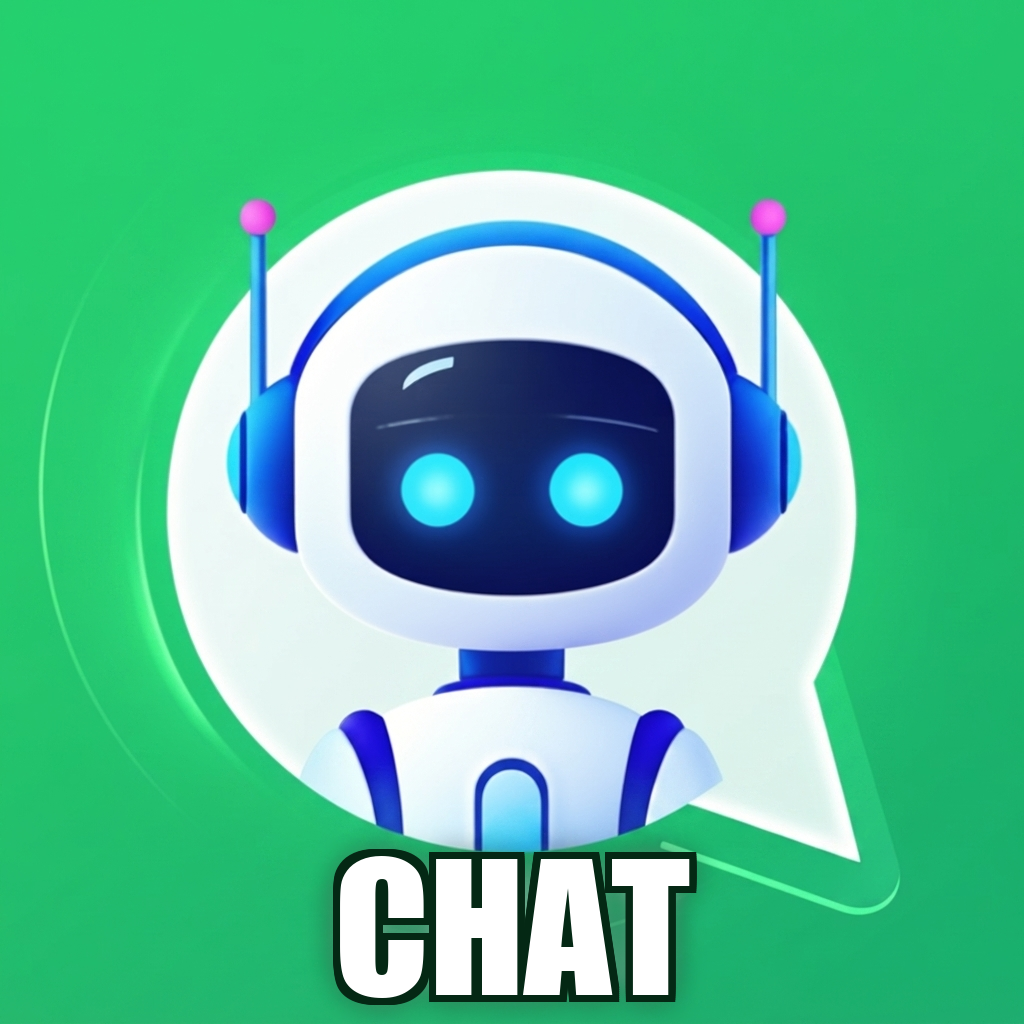
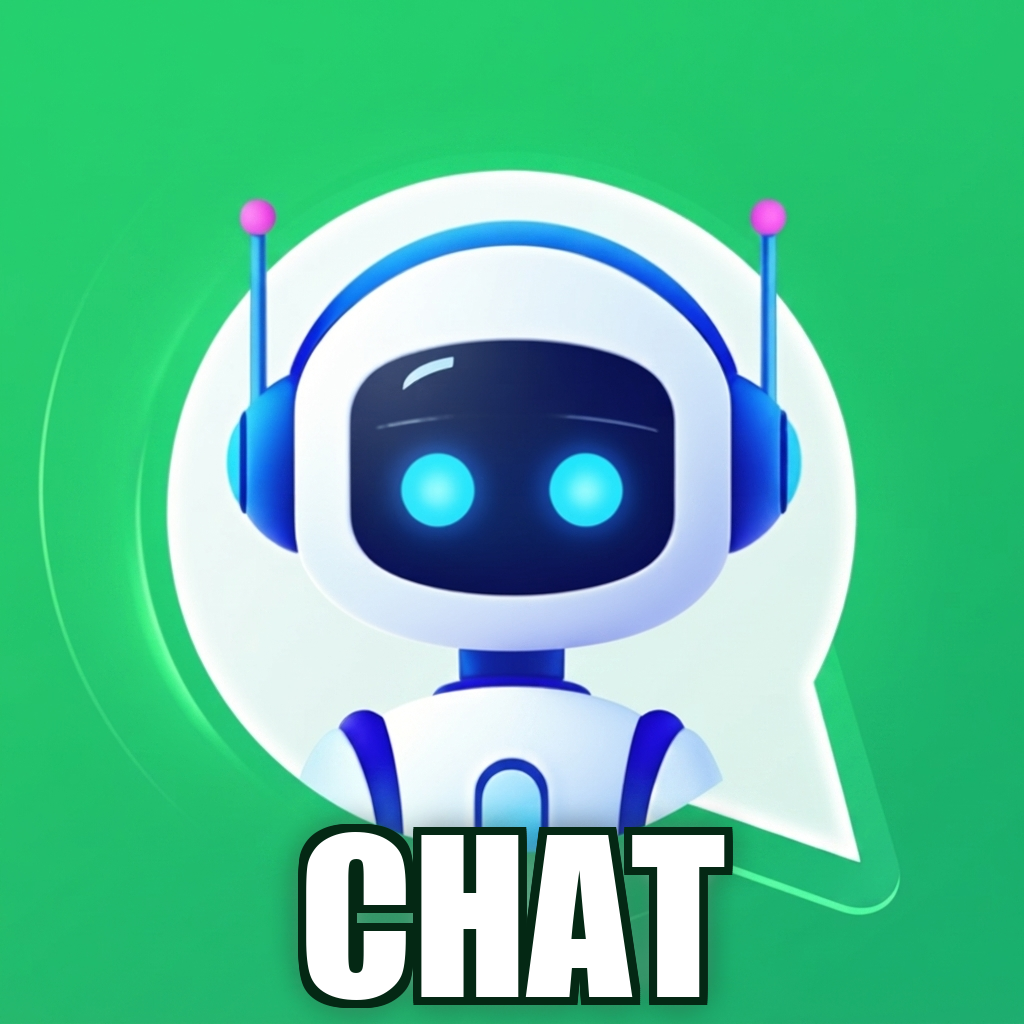
feat: aumenta mais a palavra CHAT e o botão flutuante de Suporte
- Fonte do "CHAT" maior de novo no ícone (still cabe sem cortar nem
  sobrepor o robô/rabinho do balão) — pedido do Franklin comparando
  ao tamanho do texto dos botões da barra de baixo.
- Botão físico do chat flutuante aumentado de 66px pra 76px, pra tudo
  (robô + texto) ficar visivelmente maior na tela.

Changed region(s): [[0.2812, 0.7812, 0.7188, 1.0]]

diff --git a/app/hostnet-server/public/index.html b/app/hostnet-server/public/index.html
@@ -989,10 +989,10 @@
   .support-fab {
     position: fixed;
     z-index: 300;
-    width: 66px;
-    height: 66px;
+    width: 76px;
+    height: 76px;
     border: none;
-    border-radius: 18px;
+    border-radius: 20px;
     background: none;
     padding: 0;
     display: none;
